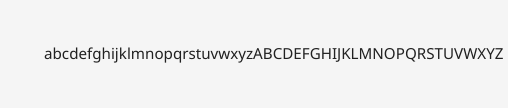
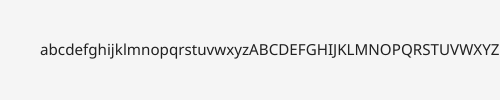
Disable window padding

Changed region(s): [[0.06, 0.42, 1.0, 0.6]]

diff --git a/canvas/text_test.go b/canvas/text_test.go
@@ -110,7 +110,8 @@ func TestText_Layout(t *testing.T) {
 			text.Alignment = tt.align
 
 			window := test.NewWindow(text)
-			window.Resize(text.MinSize().Max(tt.size).Add(fyne.NewSize(2*theme.Padding(), 2*theme.Padding())))
+			window.SetPadded(false)
+			window.Resize(text.MinSize().Max(tt.size))
 
 			test.AssertImageMatches(t, "text/layout_"+name+".png", window.Canvas().Capture())
 
